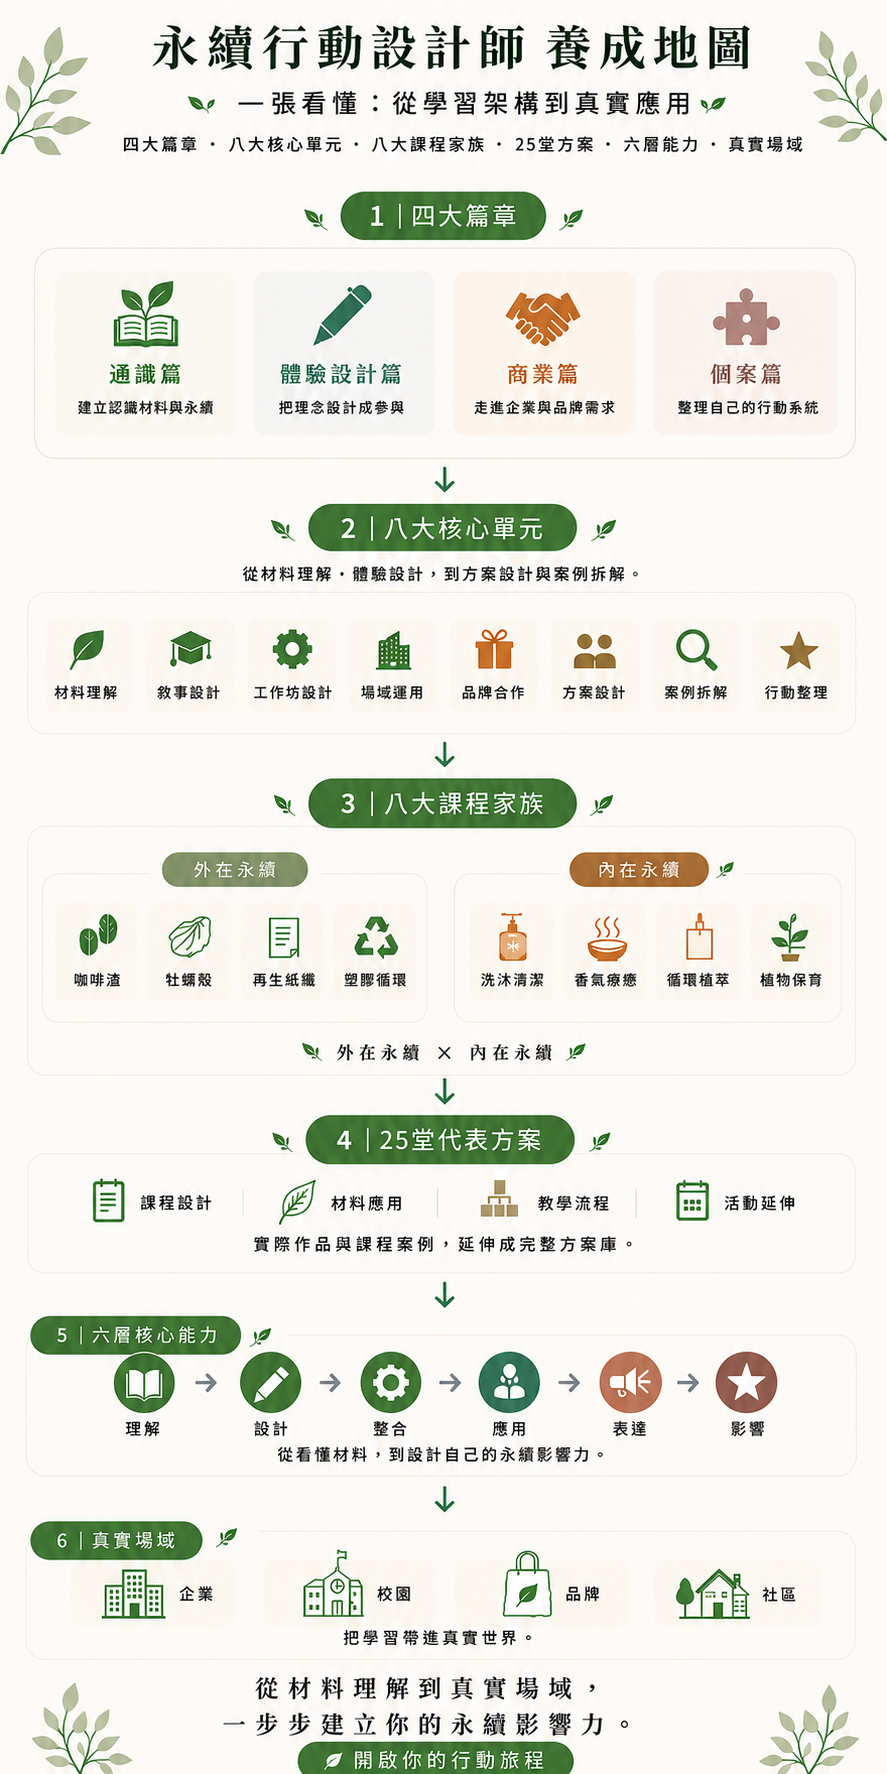
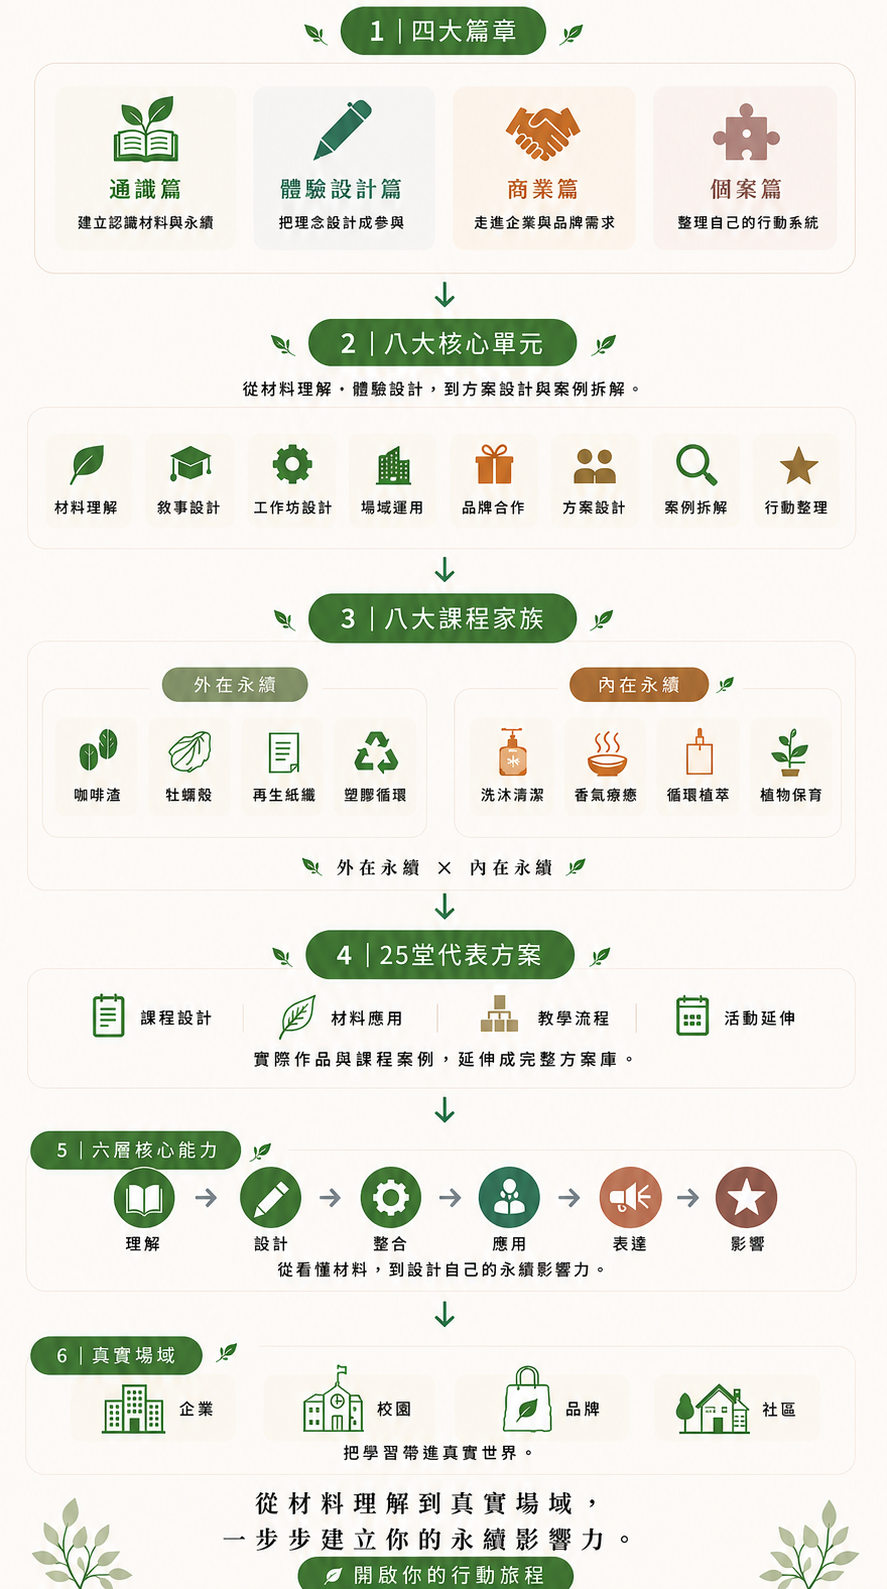
養成地圖裁掉圖內標題/副標,改HTML寫在圖上方;底部按鈕連結重新對位(圖變矮)

diff --git a/academy/index.html b/academy/index.html
@@ -421,9 +421,15 @@
 <!-- ===== 6.3 學習地圖總覽（分段式·高層次路徑）===== -->
 <section class="learnmap" style="background:var(--warm-white);">
   <div class="wrap">
+    <div class="center" style="margin-bottom:10px;">
+      <span class="kicker">Your Growth Map</span>
+      <h2 class="section-title">永續行動設計師養成地圖</h2>
+      <p class="section-lead center" style="margin:10px auto 0;">一張看懂：從學習架構到真實應用</p>
+      <p style="font-size:13px;color:var(--brown);letter-spacing:.04em;line-height:1.7;margin:10px 0 0;">四大篇章 · 八大核心單元 · 八大課程家族 · 25 堂方案 · 六層能力 · 真實場域</p>
+    </div>
     <div class="section-img--bleed learnmap-wrap">
       <img src="assets/section-learnmap.png" alt="永續行動設計師養成地圖｜一張看懂：從學習架構到真實應用。1 四大篇章（通識→體驗設計→商業→個案，建立完整學習架構）、2 八大核心單元（從材料理解、敘事設計到方案設計與案例拆解）、3 八大課程家族（外在永續×內在永續，看懂材料如何變成體驗）、4 25 堂代表方案庫（實際作品與課程案例，延伸成完整永續體驗方案庫）、5 六層核心能力（理解→設計→整合→應用→表達→影響）、6 真實場域（把學習帶進企業、校園、品牌與社區）。" loading="lazy">
-      <a href="https://line.me/R/ti/p/@403kginl" target="_blank" rel="noopener" aria-label="開啟你的行動旅程：報名免費公開課" style="position:absolute;left:29%;top:96.4%;width:42%;height:3.4%;z-index:3;border-radius:30px;"></a>
+      <a href="https://line.me/R/ti/p/@403kginl" target="_blank" rel="noopener" aria-label="開啟你的行動旅程：報名免費公開課" style="position:absolute;left:29%;top:96.6%;width:42%;height:3.2%;z-index:3;border-radius:30px;"></a>
     </div>
   </div>
 </section>
